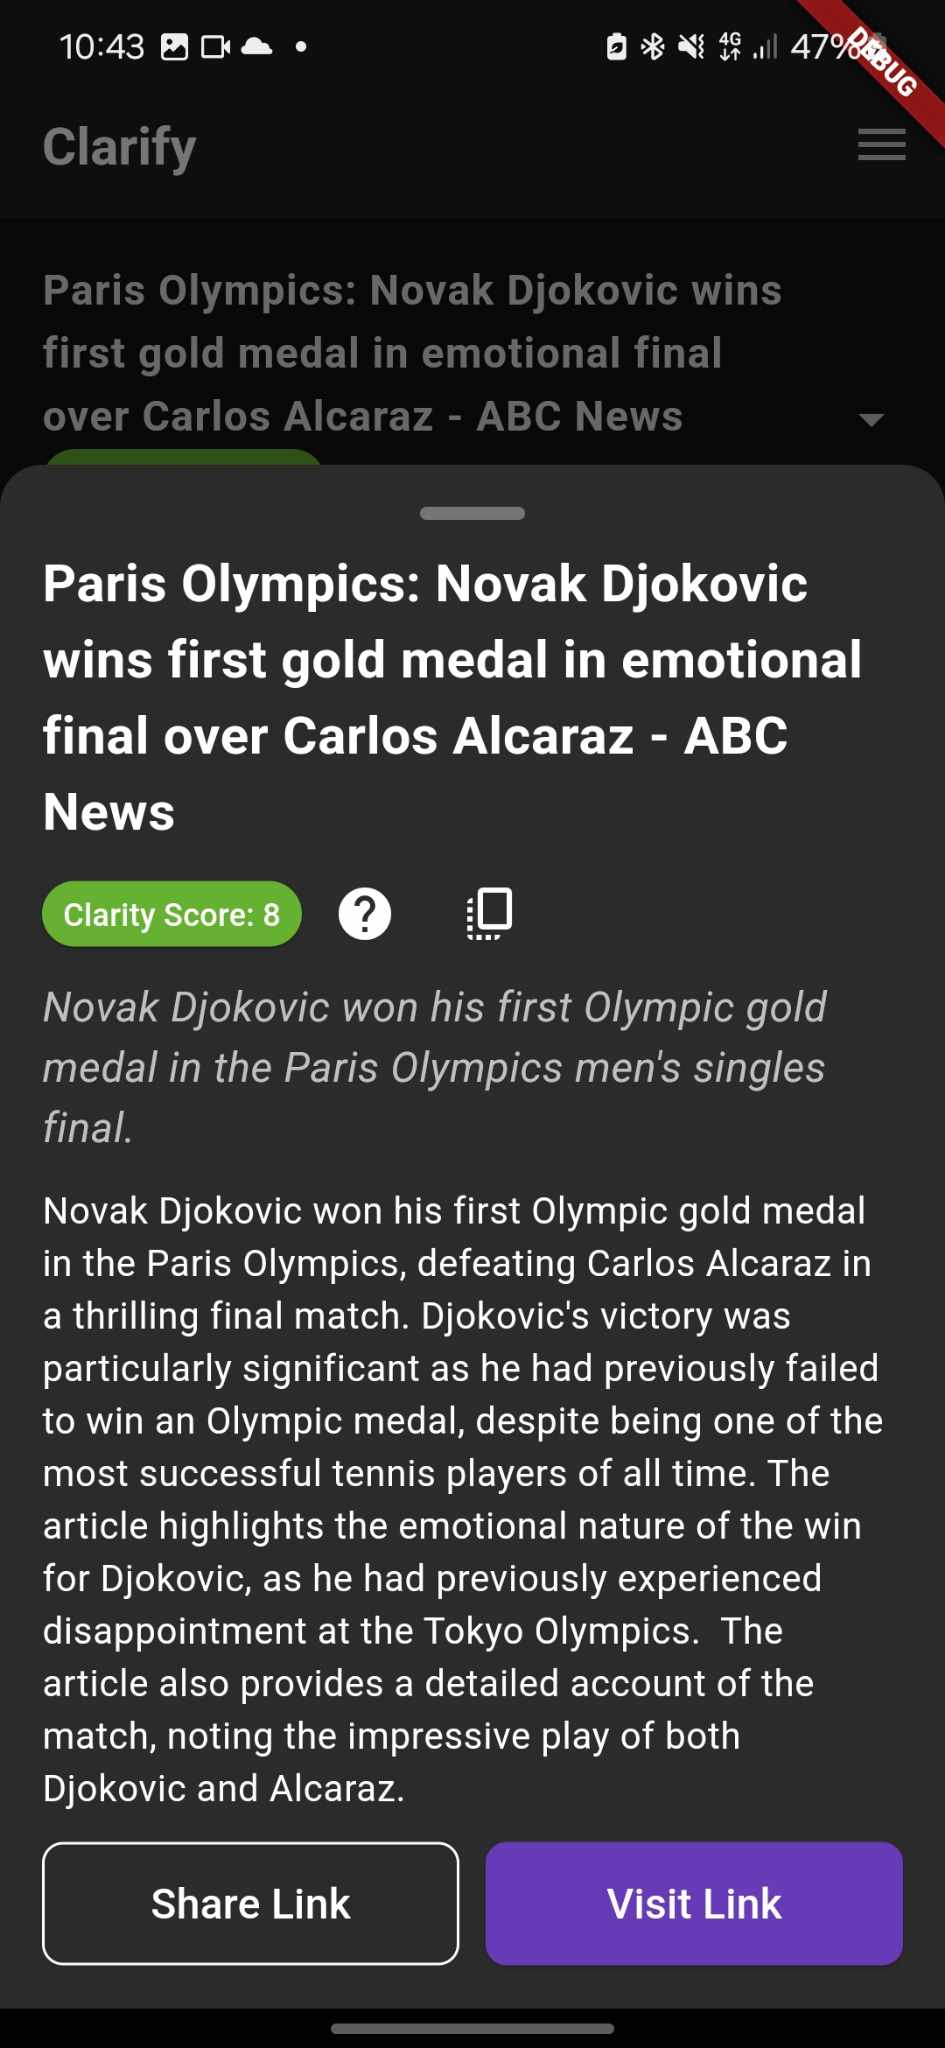
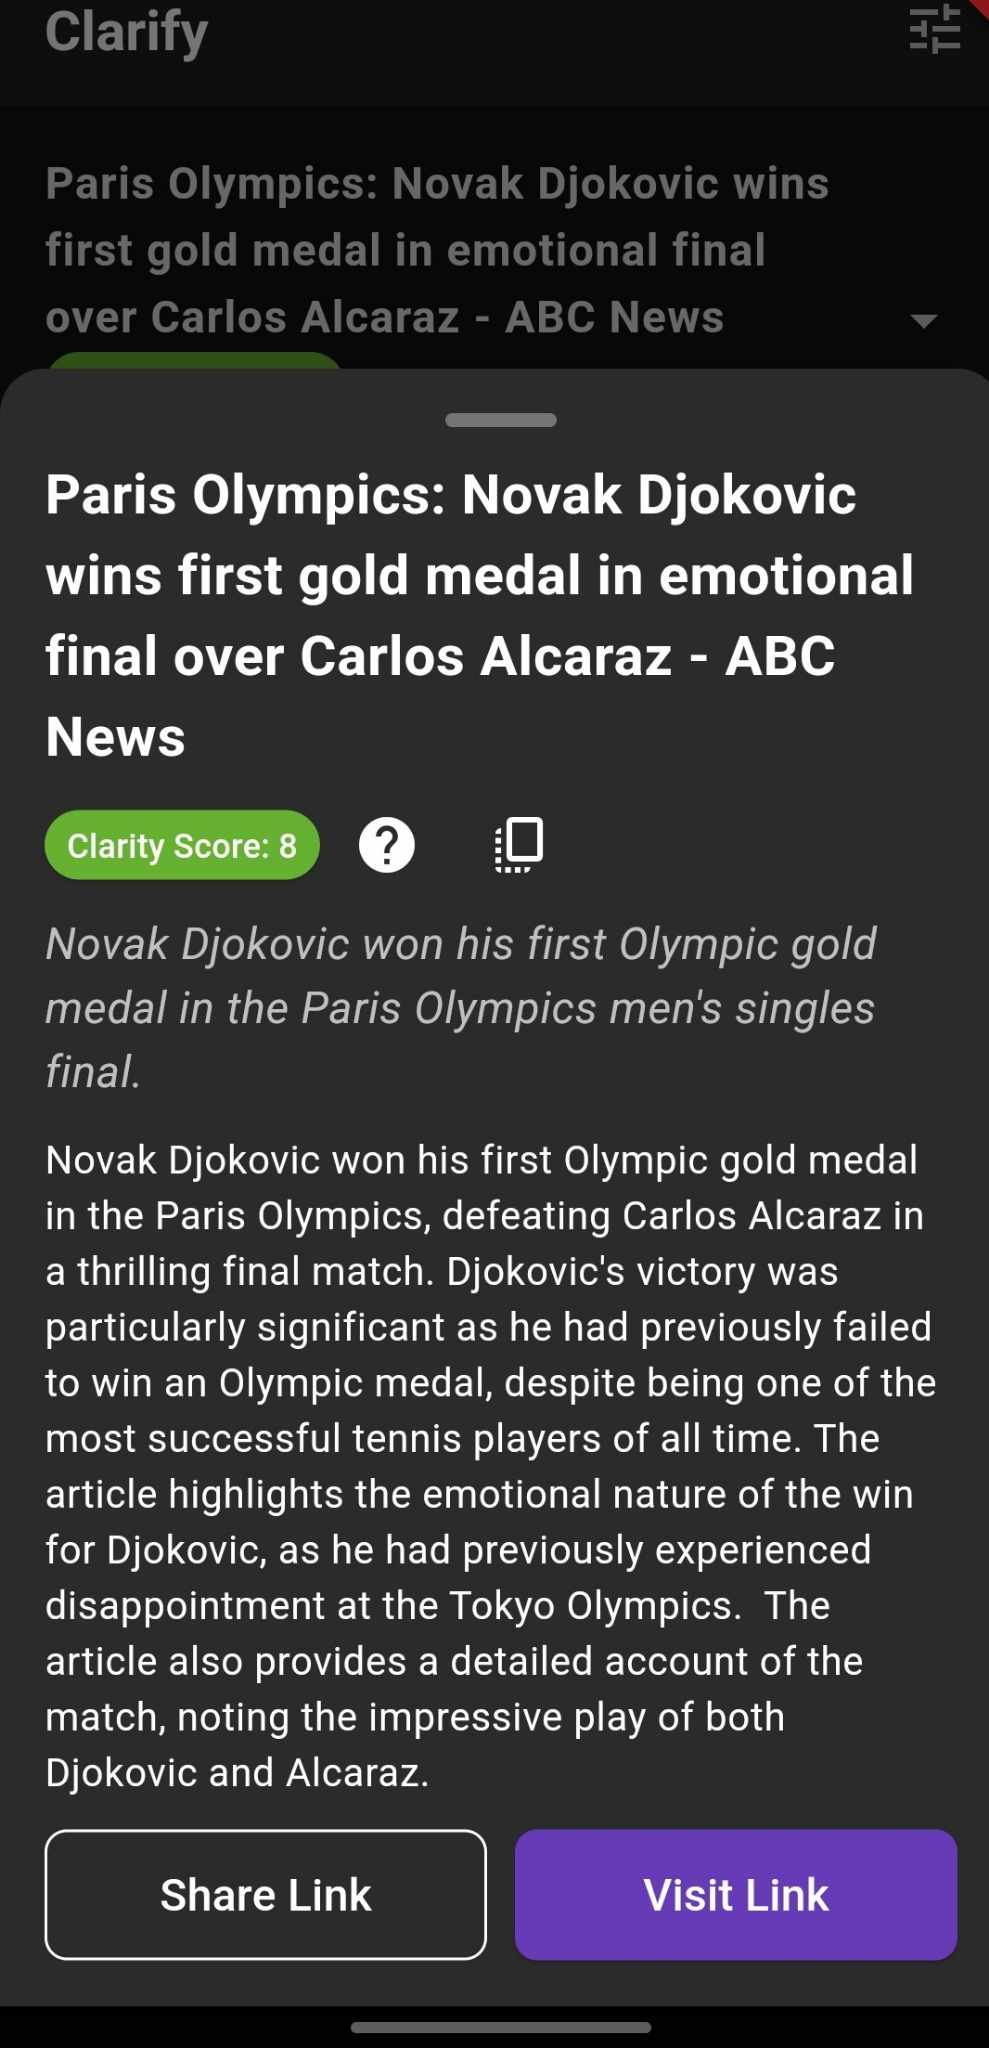
update the tutorial images

Changed region(s): [[0.0, 0.0625, 1.0, 1.0], [0.6444, 0.0, 1.0, 0.0938], [0.0307, 0.0, 0.2762, 0.0312]]

diff --git a/app/lib/widgets/sign_in_bottom_sheet.dart b/app/lib/widgets/sign_in_bottom_sheet.dart
@@ -14,7 +14,8 @@ class _SignInBottomSheetState extends ConsumerState<SignInBottomSheet> {
   final FocusNode _emailFocusNode = FocusNode();
   final TextEditingController _emailController = TextEditingController();
   final TextEditingController _nameController = TextEditingController();
-  final List<TextEditingController> _codeControllers = List.generate(4, (_) => TextEditingController());
+  final List<TextEditingController> _codeControllers =
+      List.generate(4, (_) => TextEditingController());
   final List<FocusNode> _codeFocusNodes = List.generate(4, (_) => FocusNode());
   final FocusNode _nameFocusNode = FocusNode();
   bool _isCodeSent = false;
@@ -67,9 +68,7 @@ class _SignInBottomSheetState extends ConsumerState<SignInBottomSheet> {
       setState(() {
         _isCodeSent = true;
         _email = email;
-        WidgetsBinding.instance.addPostFrameCallback((_) {
-          _codeFocusNodes[0].requestFocus();
-        });
+        // Removed auto-focus on the first code input field
       });
     } catch (e) {
       setState(() {
@@ -113,7 +112,8 @@ class _SignInBottomSheetState extends ConsumerState<SignInBottomSheet> {
         setState(() {
           _isVerifyingCode = false;
         });
-        Navigator.of(context).pop(); // Close the bottom sheet after successful login
+        Navigator.of(context)
+            .pop(); // Close the bottom sheet after successful login
         ScaffoldMessenger.of(context).showSnackBar(
           const SnackBar(content: Text('Successfully signed in')),
         );
@@ -148,7 +148,8 @@ class _SignInBottomSheetState extends ConsumerState<SignInBottomSheet> {
       setState(() {
         _isVerifyingCode = false;
       });
-      Navigator.of(context).pop(); // Close the bottom sheet after successful login
+      Navigator.of(context)
+          .pop(); // Close the bottom sheet after successful login
       ScaffoldMessenger.of(context).showSnackBar(
         const SnackBar(content: Text('Successfully signed in')),
       );
@@ -288,11 +289,15 @@ class _SignInBottomSheetState extends ConsumerState<SignInBottomSheet> {
                   border: OutlineInputBorder(),
                   counterText: '',
                 ),
-                onChanged: (value) {
+                onChanged: (value) async {
                   if (value.isNotEmpty && index < 3) {
+                    // Debounce the focus change by adding a small delay
+                    await Future.delayed(const Duration(milliseconds: 100));
                     _codeFocusNodes[index + 1].requestFocus();
                   }
                   if (value.isEmpty && index > 0) {
+                    // Debounce the focus change by adding a small delay
+                    await Future.delayed(const Duration(milliseconds: 100));
                     _codeFocusNodes[index - 1].requestFocus();
                   }
                 },

diff --git a/app/lib/screens/main_screen.dart b/app/lib/screens/main_screen.dart
@@ -141,7 +141,7 @@ class _MainScreenState extends ConsumerState<MainScreen> {
         title: const Text('Clarify'),
         actions: [
           IconButton(
-            icon: const Icon(Icons.menu),
+            icon: const Icon(Icons.tune),
             onPressed: _navigateToAccountScreen,
           ),
         ],
